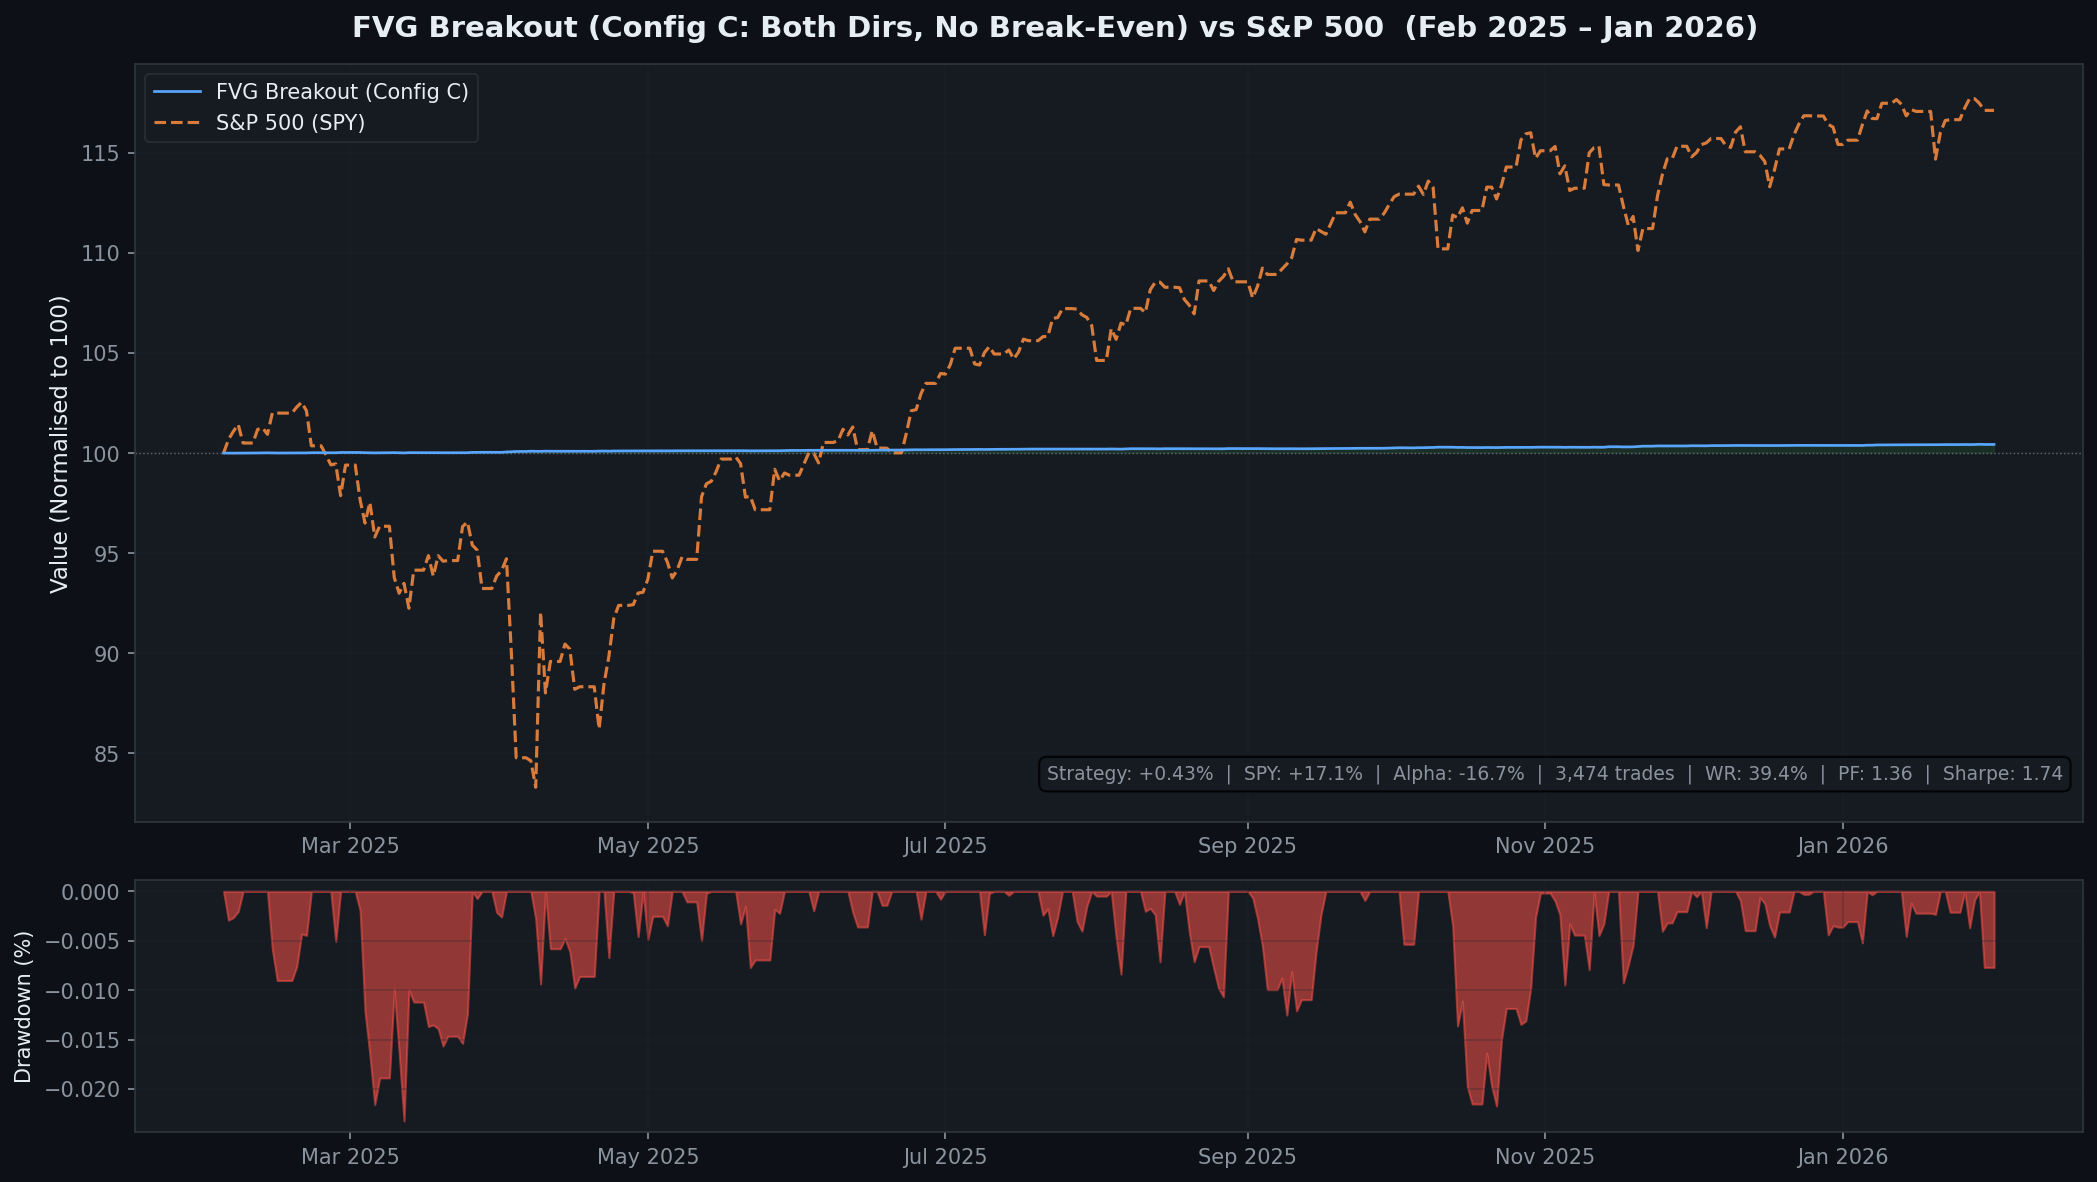
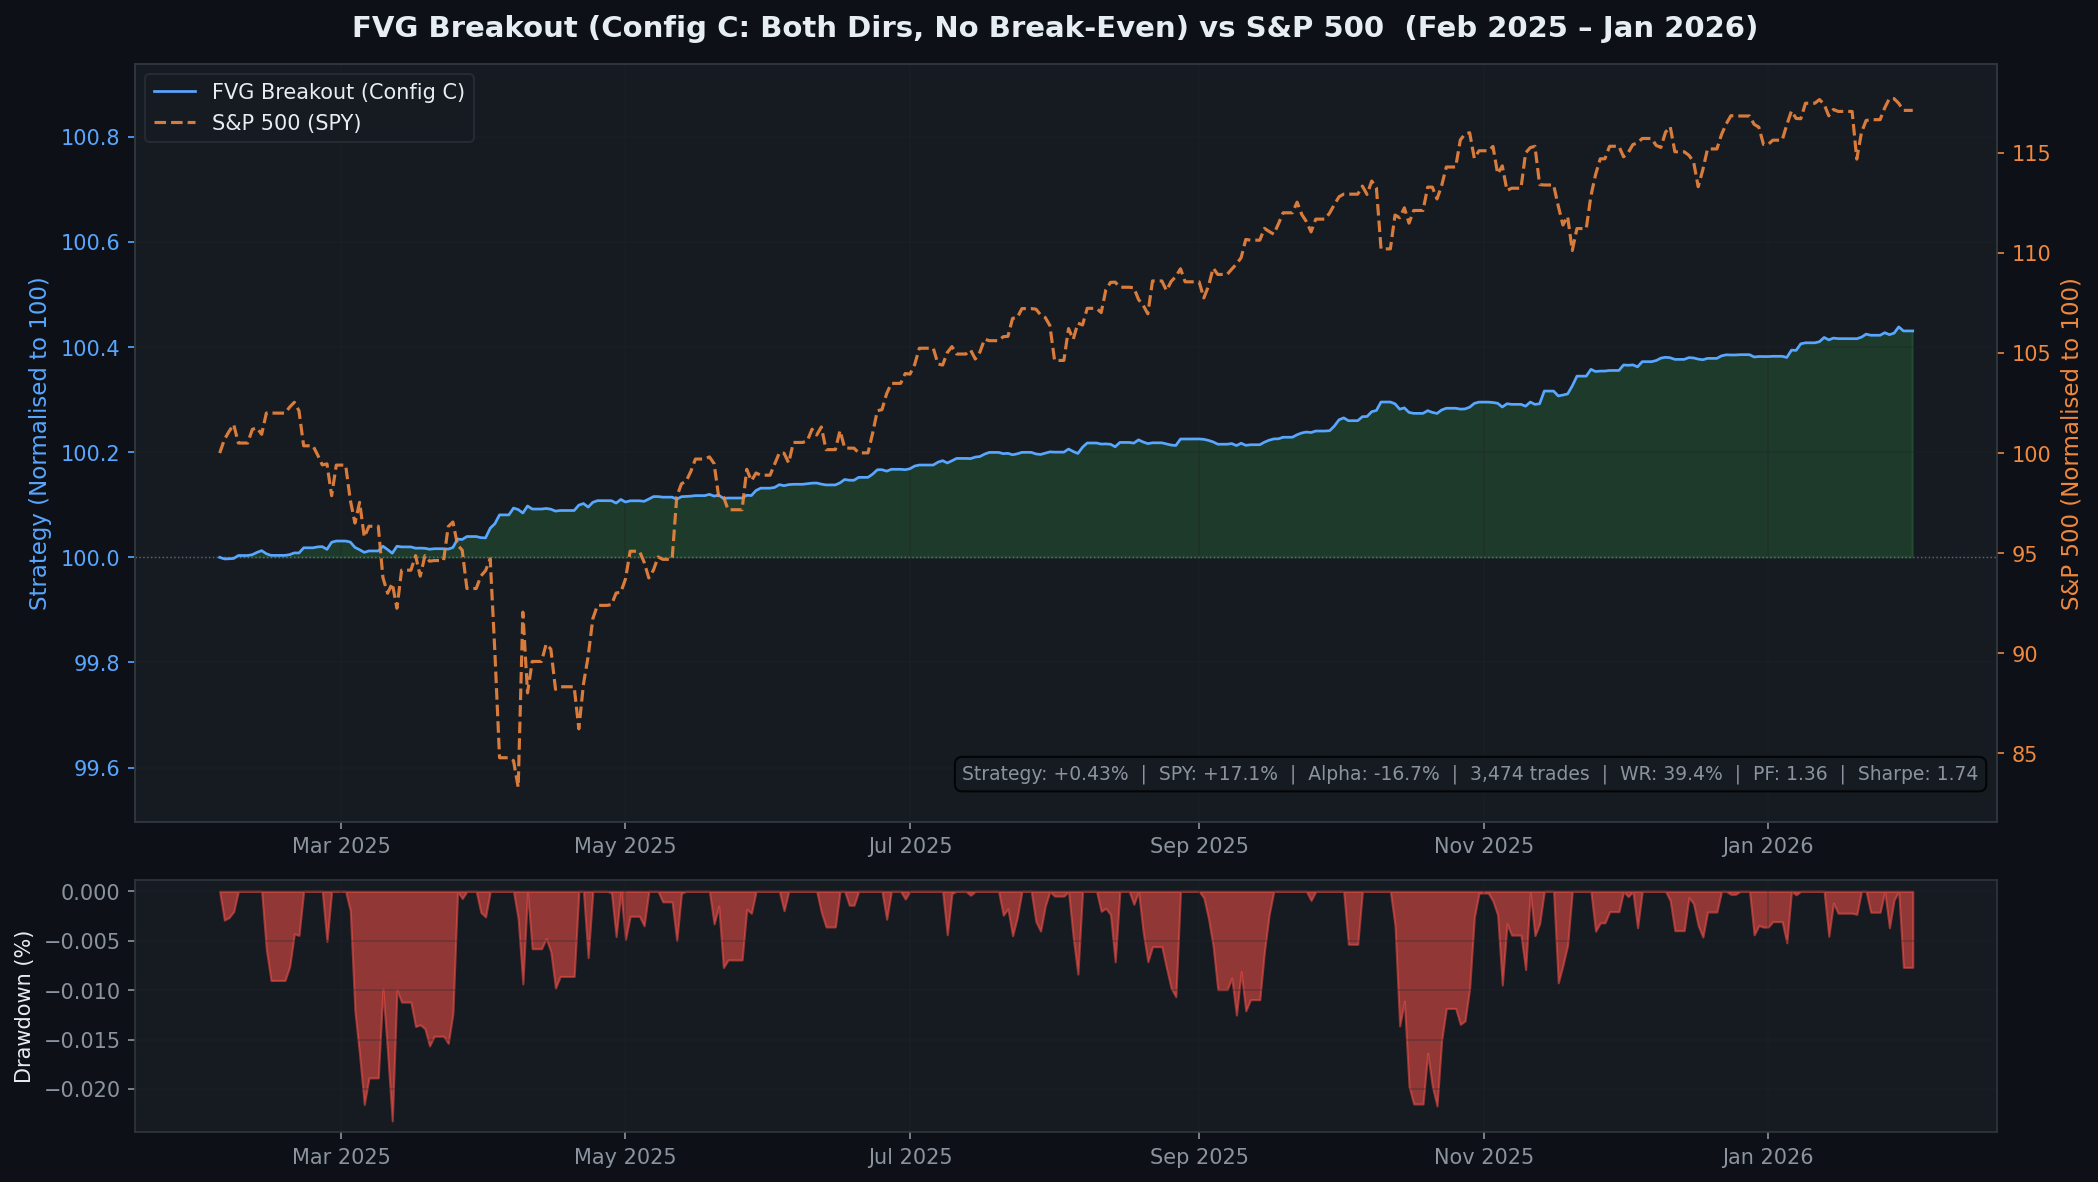
fix: FVG chart — dual y-axis so strategy isn't crushed by SPY scale
Strategy returns +0.43% while SPY returns +17% — shared axis compressed
the strategy line to invisible. Now: strategy on left axis (zoomed to its
own range), SPY on right axis, both clearly visible with color-coded labels.

diff --git a/results/generate_charts_spy.py b/results/generate_charts_spy.py
@@ -272,10 +272,45 @@ common = eq_fvg.index.intersection(spy_a.index)
 eq_norm  = normalize(eq_fvg.loc[common].values)
 spy_norm = normalize(spy_a.loc[common].values)
 
-fig, ax1, ax2 = make_figure('FVG Breakout (Config C: Both Dirs, No Break-Even) vs S&P 500  (Feb 2025 – Jan 2026)')
-draw_equity(ax1, common, eq_norm, label='FVG Breakout (Config C)')
-add_benchmark(ax1, common, spy_norm)
-finish_legend(ax1)
+# FVG is nearly flat (+0.43%) — use dual y-axis so the small strategy
+# movements don't get crushed by SPY's 17% range on a shared axis.
+fig, (ax1, ax2) = plt.subplots(2, 1, figsize=(14, 8), height_ratios=[3, 1], facecolor=DARK)
+fig.suptitle('FVG Breakout (Config C: Both Dirs, No Break-Even) vs S&P 500  (Feb 2025 – Jan 2026)',
+             fontsize=14, color=TEXT, fontweight='bold')
+ax1.set_facecolor(PANEL)
+ax2.set_facecolor(PANEL)
+
+# Strategy on left y-axis — zoom to its own range
+margin = max(0.5, (eq_norm.max() - eq_norm.min()) * 0.3)
+ax1.set_ylim(eq_norm.min() - margin, eq_norm.max() + margin)
+ax1.plot(common, eq_norm, color=BLUE, linewidth=1.3, label='FVG Breakout (Config C)', zorder=3)
+ax1.axhline(100, color=MUTED, linewidth=0.7, linestyle=':', alpha=0.6)
+ax1.fill_between(common, 100, eq_norm,
+                 where=(eq_norm >= 100), alpha=0.2, color=GREEN)
+ax1.fill_between(common, 100, eq_norm,
+                 where=(eq_norm < 100), alpha=0.2, color=RED)
+ax1.set_ylabel('Strategy (Normalised to 100)', fontsize=11, color=BLUE)
+ax1.tick_params(axis='y', colors=BLUE)
+ax1.grid(True, alpha=0.3)
+ax1.xaxis.set_major_formatter(mdates.DateFormatter('%b %Y'))
+
+# SPY on right y-axis — its own independent scale
+ax1r = ax1.twinx()
+ax1r.set_facecolor('none')
+ax1r.plot(common, spy_norm, color=ORANGE, linewidth=1.5, linestyle='--',
+          alpha=0.9, label='S&P 500 (SPY)', zorder=2)
+ax1r.set_ylabel('S&P 500 (Normalised to 100)', fontsize=11, color=ORANGE)
+ax1r.tick_params(axis='y', colors=ORANGE)
+ax1r.spines['right'].set_color(BORDER)
+
+# Combined legend from both axes
+lines1, labs1 = ax1.get_legend_handles_labels()
+lines2, labs2 = ax1r.get_legend_handles_labels()
+ax1.legend(lines1 + lines2, labs1 + labs2,
+           loc='upper left', framealpha=0.6, fontsize=10,
+           facecolor=PANEL, edgecolor=BORDER, labelcolor=TEXT)
+
+# Drawdown panel
 draw_drawdown(ax2, common, eq_norm)
 
 strat_ret = scalar(eq_norm[-1]) - 100
